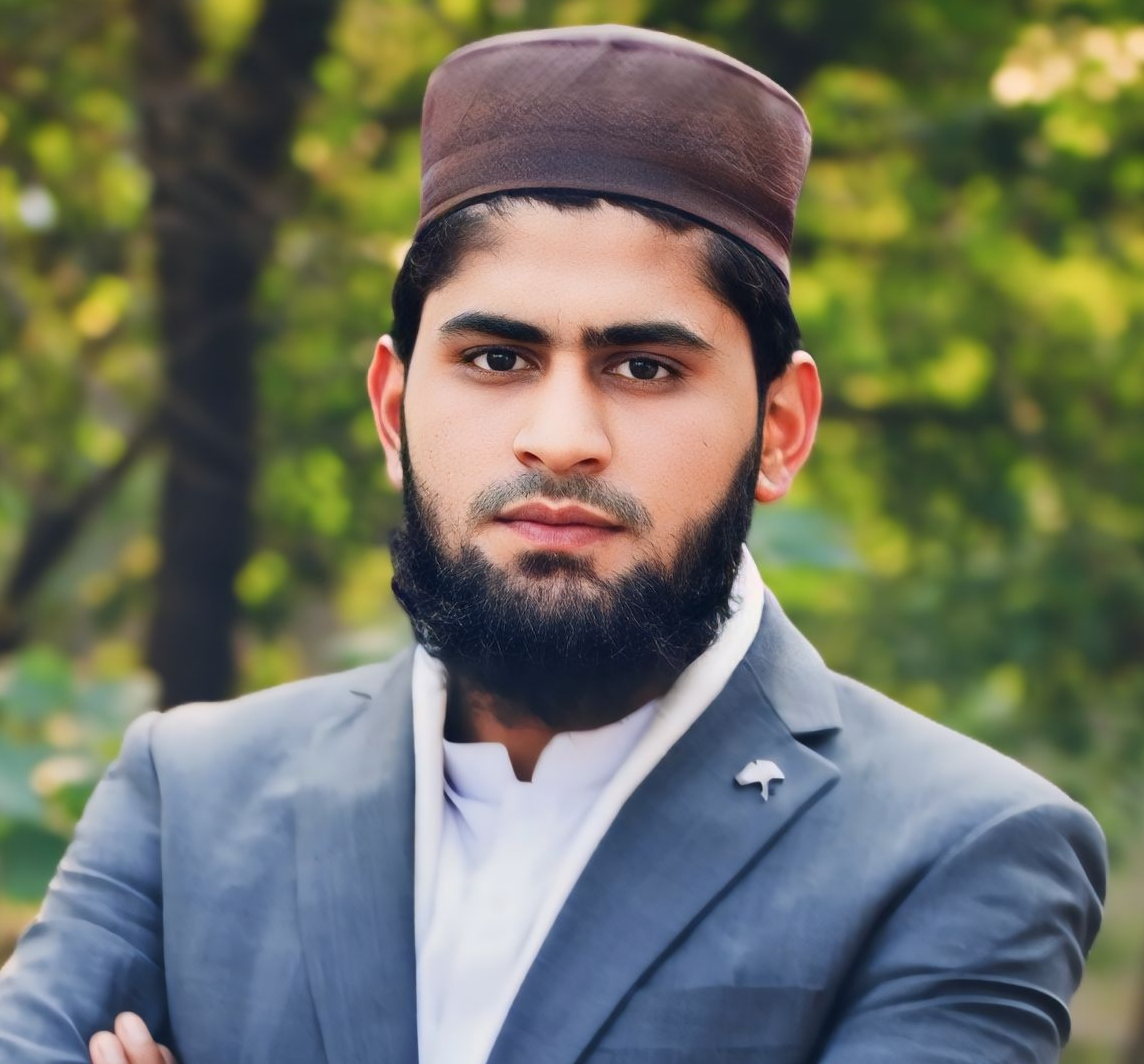
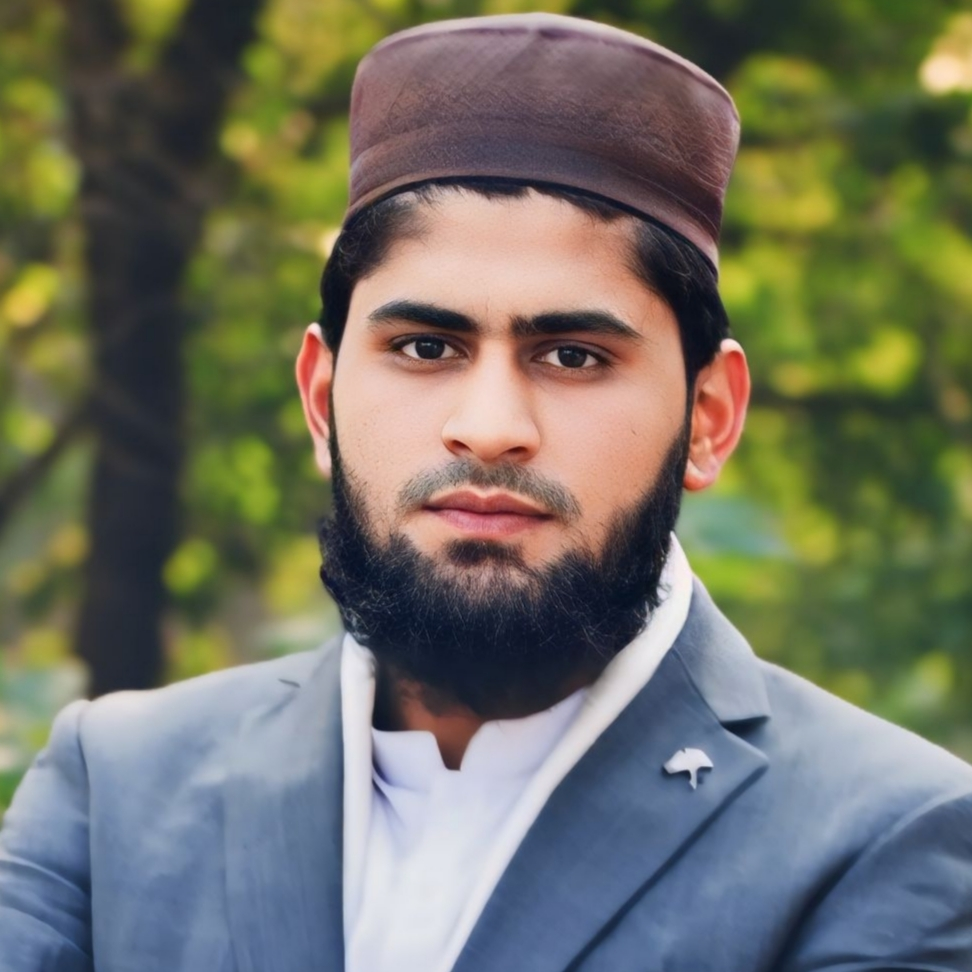
.

diff --git a/index.html b/index.html
@@ -10,7 +10,7 @@
   <!--
     - favicon
   -->
-  <link rel="shortcut icon" href="./assets/images/my_avatar.jpg" type="image/x-icon">
+  <link rel="shortcut icon" href="./assets/images/my_avatar1.jpg" type="image/x-icon">
 <!--- 
   hi
   -->
@@ -44,7 +44,7 @@
       <div class="sidebar-info">
 
         <figure class="avatar-box">
-          <img src="./assets/images/my_avatar.jpg" alt="KalimUllah" width="80">
+          <img src="./assets/images/my_avatar1.jpg" alt="KalimUllah" width="80">
         </figure>
 
         <div class="info-content">
